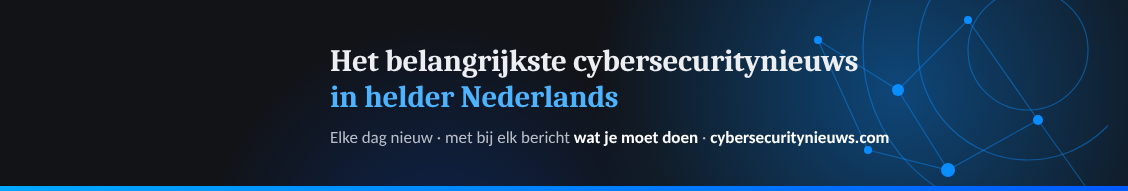
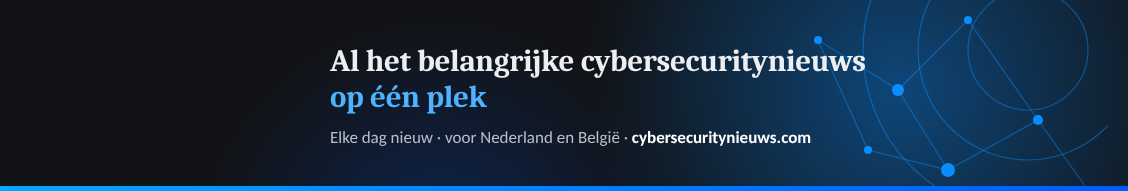
LinkedIn-omslag: nieuwe tekst zonder 'in helder Nederlands'
Claude-Session: https://claude.ai/code/session_011wL1KZWUErbCLd6CxVXXmA

Changed region(s): [[0.2793, 0.2618, 0.7757, 0.4188], [0.2793, 0.445, 0.5585, 0.6021], [0.3723, 0.6806, 0.8067, 0.7592]]

diff --git a/merk/linkedin-banner.html b/merk/linkedin-banner.html
@@ -19,6 +19,6 @@ svg.net{position:absolute;right:20px;top:-20px;width:330px;height:240px}
 <circle cx="250" cy="70" r="60"/><circle cx="250" cy="70" r="110"/><circle cx="250" cy="70" r="165"/>
 <path d="M40 60 L120 110 L190 40 L260 140 L170 190 L90 170 Z M120 110 L170 190 M190 40 L260 140 M260 140 L310 210"/></g>
 <g fill="#0a8dff"><circle cx="40" cy="60" r="4"/><circle cx="120" cy="110" r="6"/><circle cx="190" cy="40" r="4"/><circle cx="260" cy="140" r="5"/><circle cx="170" cy="190" r="7"/><circle cx="90" cy="170" r="4"/><circle cx="310" cy="210" r="4"/></g></svg>
-<div class="t"><h1>Het belangrijkste cybersecuritynieuws<br><em>in helder Nederlands</em></h1>
-<p>Elke dag nieuw · met bij elk bericht <b>wat je moet doen</b> · <b>cybersecuritynieuws.com</b></p></div>
+<div class="t"><h1>Al het belangrijke cybersecuritynieuws<br><em>op één plek</em></h1>
+<p>Elke dag nieuw · voor Nederland en België · <b>cybersecuritynieuws.com</b></p></div>
 <div class="bar"></div></div></body></html>
